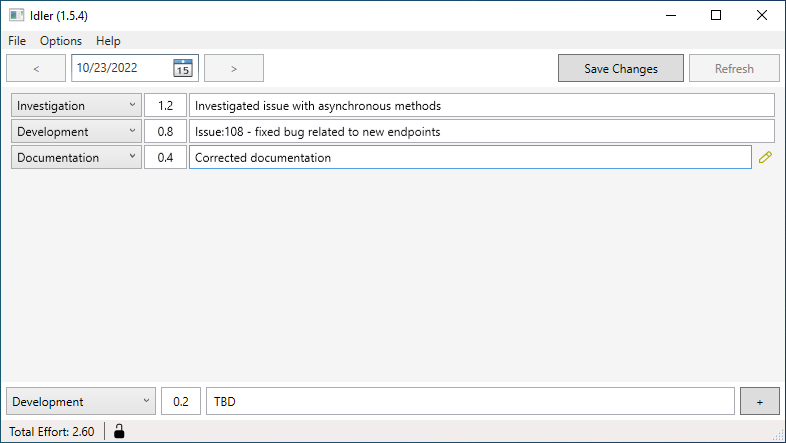
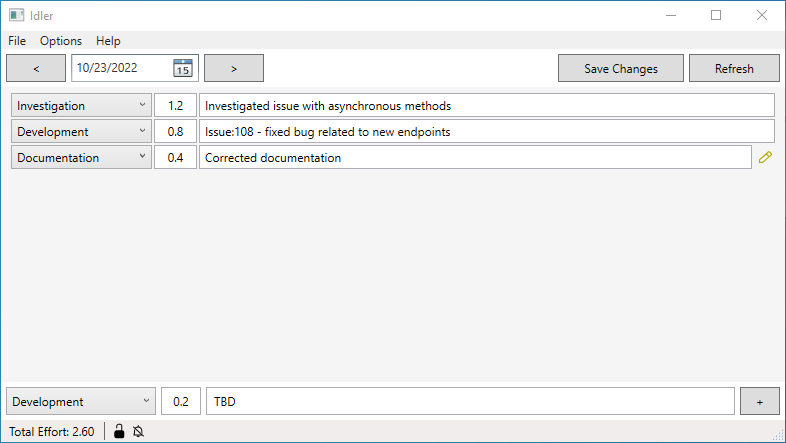
Put controls to manage reminders in status bar (#70)
### Description of issue

Need to put button to enable/disable notification in status bar

### Description of fix

Added toggle button with `bell` icon near button to blur notes in status
bar

diff --git a/src/Idler/MainWindow.xaml b/src/Idler/MainWindow.xaml
@@ -169,6 +169,62 @@
                     </ToggleButton.Style>
                 </ToggleButton>
             </StatusBarItem>
+            <StatusBarItem>
+                <ToggleButton
+                    IsChecked="{Binding CurrentShift.IsReminderEnabled}"
+                    Margin="2,0,0,0">
+                    <ToggleButton.Style>
+                        <Style TargetType="ToggleButton">
+                            <Setter Property="Cursor" Value="Hand" />
+                            <Setter Property="Background" Value="Transparent" />
+                            <Setter Property="Content">
+                                <Setter.Value>
+                                    <Canvas UseLayoutRounding="False" Width="13.0" Height="14.0">
+                                        <Canvas.Clip>
+                                            <RectangleGeometry Rect="0.0,0.0,13.0,14.0"/>
+                                        </Canvas.Clip>
+                                        <Path>
+                                            <Path.Style>
+                                                <Style TargetType="Path">
+                                                    <Style.Setters>
+                                                        <Setter Property="Fill" Value="Black" />
+                                                        <Setter Property="Data">
+                                                            <Setter.Value>
+                                                                <PathGeometry Figures="m 6.64149 1.26641 c 0 -0.274098 -0.2222 -0.4963 -0.4963 -0.4963 c -0.2741 0 -0.4963 0.222202 -0.4963 0.4963 v 1.1474 c -0.71478 0.07287 -1.46609 0.30556 -2.10399 0.7788 c -0.80858 0.59987 -1.3896 1.55371 -1.50046 2.92667 c -0.0631 0.78154 -0.09709 1.37271 -0.123667 1.84685 l -0.0035 0.06288 c -0.02495 0.44561 -0.04332 0.77384 -0.07407 1.06688 c -0.06151 0.58634 -0.172262 1.03422 -0.519705 1.95482 c -0.09679 0.2564 0.03264 0.5428 0.289087 0.6395 c 0.07098 0.0268 0.144259 0.0363 0.21517 0.0305 c 0.01278 0.001 0.02568 0.0015 0.03871 0.0015 h 2.30618 h 3.9612 h 2.37326 c 0.03389 0.0008 0.06819 -0.0019 0.10237 -0.0083 c 0.05741 -0.0106 0.11135 -0.0311 0.16 -0.0596 c 0.06432 -0.0376 0.11782 -0.0883 0.15829 -0.1473 c 0.04004 -0.0582 0.06805 -0.1253 0.08025 -0.1977 c 0.0096 -0.0562 0.0097 -0.1145 -0.001 -0.1725 c -0.0061 -0.0335 -0.0155 -0.0659 -0.028 -0.0968 c -0.34429 -0.9134 -0.45442 -1.36004 -0.5157 -1.94412 c -0.03074 -0.29301 -0.04911 -0.62121 -0.07405 -1.06675 l -0.0035 -0.06301 c -0.02658 -0.47414 -0.06057 -1.06531 -0.12367 -1.84685 c -0.11221 -1.38975 -0.75415 -2.33999 -1.57956 -2.93149 c -0.64195 -0.46003 -1.3802 -0.69381 -2.041 -0.77063 z m 1.30808 10.9319 c 0.03443 -0.0638 -0.01362 -0.1383 -0.08604 -0.1383 h -3.42059 c -0.07243 0 -0.12048 0.0745 -0.08605 0.1383 c 0.34488 0.6382 1.01998 1.0718 1.79636 1.0718 c 0.77635 0 1.45145 -0.4336 1.79632 -1.0718 z m 1.52655 -2.99885 c 0.05449 0.51941 0.14553 0.94795 0.33826 1.53015 h -7.32227 c 0.19273 -0.5822 0.28377 -1.01074 0.33826 -1.53015 c 0.03335 -0.31789 0.053 -0.66911 0.07719 -1.10176 l 0.0043 -0.07603 c 0.02644 -0.47164 0.05989 -1.05321 0.12201 -1.8225 c 0.08949 -1.10838 0.53994 -1.79205 1.10247 -2.20938 c 0.57604 -0.42734 1.31524 -0.60789 2.01637 -0.6093 c 0.59745 0.0014 1.34325 0.17815 1.95164 0.61412 c 0.59403 0.42569 1.08022 1.11298 1.16835 2.20456 c 0.06212 0.76929 0.09557 1.35086 0.12201 1.8225 l 0.0043 0.07615 c 0.0242 0.43257 0.04384 0.78379 0.07719 1.10164 z"/>
+                                                            </Setter.Value>
+                                                        </Setter>
+                                                    </Style.Setters>
+                                                    <Style.Triggers>
+                                                        <DataTrigger Binding="{Binding CurrentShift.IsReminderEnabled}" Value="False">
+                                                            <Setter Property="Data">
+                                                                <Setter.Value>
+                                                                    <PathGeometry Figures="M 7.96876 12.1782 C 8.0032 12.1144 7.95515 12.0399 7.88272 12.0399 h -3.4206 c -0.07241 0 -0.12045 0.0745 -0.08603 0.1383 c 0.34488 0.6382 1.01996 1.0718 1.79636 1.0718 c 0.77634 0 1.45145 -0.4336 1.79631 -1.0718 z M 6.6607 1.24631 C 6.6607 0.972198 6.43847 0.75 6.16439 0.75 c -0.27411 0 -0.4963 0.222198 -0.4963 0.49631 v 1.1474 C 4.9533 2.46657 4.20199 2.69926 3.56408 3.1725 C 3.3487 3.33229 3.14946 3.51721 2.97095 3.72848 L 1.64769 2.52044 C 1.44375 2.33426 1.1275 2.34866 0.941315 2.5526 C 0.755135 2.75654 0.769531 3.07279 0.973471 3.25897 L 9.13467 10.7095 H 2.51132 C 2.70404 10.1273 2.79507 9.69876 2.84957 9.17935 C 2.88288 8.86191 2.9025 8.51125 2.92665 8.07946 L 2.93103 8.00156 C 2.95745 7.52992 2.9909 6.94835 3.05304 6.17906 C 3.06356 6.07314 3.02353 5.96845 2.94501 5.89658 L 2.3321 5.33552 C 2.27664 5.28474 2.18737 5.31113 2.17082 5.38448 C 2.12022 5.60883 2.08399 5.84692 2.06362 6.09917 C 2.00054 6.88071 1.96655 7.47188 1.93997 7.94601 L 1.93646 8.0089 L 1.93618 8.01366 C 1.91137 8.45685 1.89303 8.78378 1.86239 9.07578 C 1.80087 9.66212 1.69012 10.11 1.34268 11.0306 c -0.09677 0.2564 0.03265 0.5427 0.28909 0.6395 c 0.07098 0.0268 0.14426 0.0363 0.21515 0.0305 c 0.00854 0.0007 0.01712 0.0011 0.02576 0.0013 l 0.01297 0.0002 H 10.222 l 1.0677 0.9748 c 0.2039 0.1861 0.5202 0.1718 0.7064 -0.0322 c 0.1862 -0.2039 0.1718 -0.5202 -0.0322 -0.7064 L 3.70484 4.39846 C 3.84191 4.23111 3.99409 4.08943 4.15551 3.96968 C 4.73153 3.54234 5.47073 3.36179 6.17187 3.36038 C 6.76931 3.36177 7.51512 3.53853 8.1235 3.9745 C 8.71752 4.40019 9.20373 5.08748 9.29187 6.17906 C 9.35397 6.94835 9.38743 7.52992 9.41386 8.00156 L 9.41813 8.0777 c 0.01258 0.225 0.02394 0.42799 0.03663 0.61573 c 0.00855 0.12636 0.06626 0.24412 0.15969 0.32964 L 10.392 9.73493 C 10.4659 9.8025 10.5861 9.7307 10.5662 9.63265 C 10.5284 9.44747 10.5028 9.26915 10.4825 9.07578 C 10.4518 8.7829 10.4334 8.45485 10.4085 8.0096 L 10.4049 7.94601 C 10.3783 7.47188 10.3443 6.88071 10.2812 6.09917 C 10.169 4.70943 9.52709 3.75919 8.70169 3.16768 C 8.05973 2.70764 7.32148 2.47388 6.6607 2.39705 Z" FillRule="Nonzero"/>
+                                                                </Setter.Value>
+                                                            </Setter>
+                                                        </DataTrigger>
+                                                        <DataTrigger Binding="{Binding Path=IsMouseOver, RelativeSource={RelativeSource AncestorType=ToggleButton}}" Value="True">
+                                                            <Setter Property="Fill" Value="#FF3E3E3E" />
+                                                        </DataTrigger>
+                                                    </Style.Triggers>
+                                                </Style>
+                                            </Path.Style>
+                                        </Path>
+                                    </Canvas>
+                                </Setter.Value>
+                            </Setter>
+                            <Setter Property="Template">
+                                <Setter.Value>
+                                    <ControlTemplate TargetType="ToggleButton">
+                                        <Border Name="border" BorderThickness="0" BorderBrush="Black" Background="{TemplateBinding Background}">
+                                            <ContentPresenter HorizontalAlignment="Center" VerticalAlignment="Center" />
+                                        </Border>
+                                    </ControlTemplate>
+                                </Setter.Value>
+                            </Setter>
+                        </Style>
+                    </ToggleButton.Style>
+                </ToggleButton>
+            </StatusBarItem>
         </StatusBar>
     </Grid>
 </Window>

diff --git a/src/Idler/Shift.cs b/src/Idler/Shift.cs
@@ -66,11 +66,15 @@ namespace Idler
         /// <summary>
         /// Returns true if reminder is enabled
         /// </summary>
-        private Boolean IsReminderEnabled
+        public bool IsReminderEnabled
         {
-            get =>
-                Properties.Settings.Default.ReminderInterval.Ticks > 0 &&
+            get => Properties.Settings.Default.ReminderInterval.Ticks > 0 &&
                 Properties.Settings.Default.IsReminderEnabled;
+            set
+            {
+                Properties.Settings.Default.IsReminderEnabled = value;
+                Properties.Settings.Default.Save();
+            }
         }
 
 
@@ -79,6 +83,7 @@ namespace Idler
             this.Notes.CollectionChanged += NotesCollectionChangedHandler;
             Properties.Settings.Default.SettingsSaving += OnSettignsSaving;
             this.InitializeReminer();
+            this.OnPropertyChanged(nameof(this.IsReminderEnabled), true);
         }
 
         private void NotesCollectionChangedHandler(object sender, NotifyCollectionChangedEventArgs e)
@@ -196,6 +201,7 @@ namespace Idler
             {
                 this.reminder.Stop();
             }
+            this.OnPropertyChanged(nameof(this.IsReminderEnabled), true);
         }
 
         private void InitializeReminer()

diff --git a/README.md b/README.md
@@ -42,7 +42,9 @@ And at last, you can find counter which shows you total effort for selected date
 
 ### Reminders
 
-This feature helps you to not forget to fill your work progress. Reminder represents Windows Toast notification which is shown up in right bottom corner in accordance with interval specified in settings.
+This feature helps you to not forget to fill your work progress. Reminder represents Windows Toast notification which is shown up in right bottom corner in accordance with interval specified in settings. You can enable/disable reminders easily right on main window by `bell`-button in status bar.
+
+> Note, that adding new note resets timer and it starts from beginning
 
 ### Auto Blur
 
